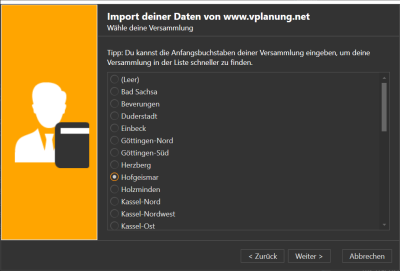
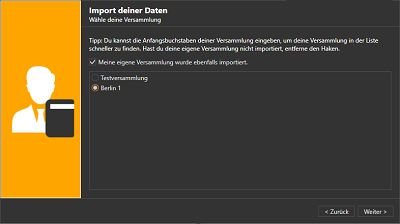
Handbuch Dokumentation

Changed region(s): [[0.0, 0.0, 1.0, 0.9062], [0.0, 0.9375, 1.0, 1.0], [0.93, 0.3125, 0.99, 0.5]]

diff --git a/Vortragsmanager/Windows/SetupWizardDialogViewModel.cs b/Vortragsmanager/Windows/SetupWizardDialogViewModel.cs
@@ -454,39 +454,6 @@ namespace Vortragsmanager.Views
                 ImportierteJahreliste.Add(j.Key.ToString(Helper.German));
             }
 
-            var jahr = IoExcel.Import.ExternerPlan.Select(x => x.Kw / 100);
-
-            bool hasMatch = ImportierteJahreliste.Any(x => jahr.Any(y => y.ToString(Helper.German) == x));
-
-            //prüfen ob bereits importiert wurde
-            if (hasMatch)
-            {
-                if (ThemedMessageBox.Show(
-                    $"Es existieren bereits Einträge für das gewählte Jahr. Ereignisse zusammenführen? (Bestehende Einträge werden überschrieben)?",
-                    Properties.Resources.Achtung,
-                    MessageBoxButton.YesNo,
-                    MessageBoxImage.Warning) != MessageBoxResult.Yes)
-                    return;
-            }
-
-            foreach (var item in IoExcel.Import.ExternerPlan)
-            {
-                if (hasMatch) //ich muss das nur prüfen wenn hasMatch=true ist, sonst gibt es keine Einträge im Zeitraum
-                {
-                    var exist = DataContainer.ExternerPlan.FirstOrDefault(x => x.Kw == item.Kw);
-                    if (exist != null)
-                        DataContainer.ExternerPlan.Remove(exist);
-                }
-                DataContainer.ExternerPlan.Add(item);
-            }
-
-            foreach (var item in jahr)
-            {
-                var neu = item.ToString(Core.Helper.German);
-                if (!ImportierteJahreliste.Contains(neu))
-                    ImportierteJahreliste.Add(neu);
-            }
-
             RaisePropertyChanged(nameof(ImportierteJahreliste));
             CanGoNext = true;
             IsFinished = true;

diff --git a/Vortragsmanager/Core/IoExcel.cs b/Vortragsmanager/Core/IoExcel.cs
@@ -455,7 +455,8 @@ namespace Vortragsmanager.Core
                             if (!i.Ältester.Vorträge.Select(y => y.Vortrag).Contains(t))
                                 i.Ältester.Vorträge.Add(i.Vortrag);
 
-                            DataContainer.ExternerPlan.Add(i);
+                            if (!DataContainer.ExternerPlan.Any(x => x.Kw == i.Kw && x.Ältester == i.Ältester))
+                                DataContainer.ExternerPlan.Add(i);
                         }
                     }
                 }

diff --git a/docs/Initialisierung.md b/docs/Initialisierung.md
@@ -3,12 +3,13 @@ title: "Initialisierung deiner Daten"
 ---
 
 Startest du den Vortragsmanager zum ersten mal erscheint ein Wizard der dir bei den ersten Schritten behilflich sein soll.
-Du hast 3 verschiedene Möglichkeiten wie du starten kannst.
+Du hast 4 verschiedene Möglichkeiten wie du starten kannst.
 
  ![Wizard Auswahl](images/installation_wizard_01.png)
 
  1. Ich habe eine Vortragsmanager Datenbank die ich öffnen möchte ⇒ [hier weiter lesen](#datenbank-öffnen)
- 1. Ich habe die Daten von www.vplanung.net und möchte sie importieren. ⇒ [hier weiter lesen](#import-der-vplanungnet-daten)
+ 1. Ich habe Daten von einem anderen Programm und möchte sie importieren. ⇒ [hier weiter lesen](#import-der-daten-aus-excel)
+ 1. Ich möchte das Programm mit Demodaten öffnen um das Programm zu testen.  ⇒ [hier weiter lesen](#demo)
  1. Ich habe keine Daten und möchte mit einem leeren Programm starten. ⇒ [hier weiter lesen](#mit-leerem-programm-starten)
 
 ## Datenbank öffnen ##
@@ -16,35 +17,72 @@ Solltest du bereits eine Datei für den Vortragsmanager haben, kannst du hier im
 
 ## Mit leerem Programm starten ##
 
-Der Assistent wird beendet und du startest mit einem leeren Programm, in dem du alle deine Daten erfassen mußt.
+Der Assistent wird beendet und du startest mit einem leeren Programm, in dem du alle deine Daten erfassen kannst.
 
-## Import der vplanung.net Daten ##
+## Demo ##
+Hier wird eine Beispielplanung für das aktuelle und vorherige Jahre erstellt und angezeigt. Du kannst nach belieben die Planung ändern, Redner hinzufügen und löschen, Listen ausgeben etc. und damit das Programm auf Herz und Nieren testen um zu Entscheiden ob die gebotene Funktionalität deinen Anforderungen entspricht.
 
-Konzipiert als Nachfolger der vplanung.net Plattform ist der import der Datensicherung aus diesem System der komfortabelste Weg.
-Hier benötigst du 2-3 verschiedene Excel-Dateien, die du aus vplanung.net heruntergeladen haben musst. Das Dateiformat muß Excel 2007 (Dateiendung .xlsx) sein:
+## Import der Daten aus Excel ##
 
-* "Deine Vortragsplanung 2019" (und ältere Jahre)
-* "Liste der Vortragskoordinatoren im Kreis NNN.xlsx"
+Da die meisten sicherlich bereits irgendein Programm haben und die meisten Programme ihre Daten als Excel-Datei speichern können, ist der Import aus Excel der komfortabelste Weg.
+Hier benötigst du 4 verschiedene Excel-Dateien, Das Dateiformat muß mindestens Excel 2007 (Dateiendung .xlsx) sein:
 
-### Import der Koordinatoren ###
+* Eine Liste aller Versammlungen mit Adresse und Kontaktdaten des dortigen Vortragskoordinator
+* Eine Liste aller Redner aus deinem Kreis mit ihren jeweiligen Vortragsnummern sowie ihren Kontaktdaten, sofern vorhanden
+* Plan deiner eigenen Planung für deine Versammlung
+* Liste der Termine für deine Redner in anderen Versammlungen
+
+Bei jedem Import wird die jeweils eine Beispiel-Excel Datei angeboten. Du kannst diese öffnen und mit deinen Daten füllen, oder deine vorhandene Datei so anpassen, das sie dem Beispiel entspricht.
+Wichtig ist dabei, das alle Spalten in der vorgegebenen Reihenfolge existieren. Wenn du die Information nicht hast, kannst du die Spalte einfach leer lassen, es sind nur wenige Spalten wirklich notwendig.
+
+### Import der Versammlungen und Koordinatoren ###
 
 ![Import der Versammlungs- und Koordinatoren Daten](images/installation_wizard_02.png){: .align-right}
-Zuerst werden die Koordinatoren und Versammlungsdaten importiert. Wähle dazu alle deine Dateien "Liste der Vortragskoordinatoren im Kreis NNN.xlsx" aus und klicke auf "Importieren". Dir werden in der rechten Liste die Kreisnummer, sowie die Anzahl der soeben importierten Versammlungen angezeigt. Du kannst diesen Schritt nun auch für alle Nachbarkreise wiederholen, deren Daten du heruntergeladen hast.
+Zuerst werden die Versammlungen und die Koordinatoren importiert. In der rechten Fensterhälfte siehst du, wie viele Versammlungen von dem Programm importiert worden sind.
+Solltest du einen Fehler gemacht haben, geh im Assistent einfach noch einmal einen Schritt zurück und wiederhole den letzten und den aktuellen Schritt noch einmal.
 
-Wenn du alle Koordinatoren-Listen importiert hast, klicke auf weiter.
+Notwendig ist hier die Spalte 2 mit dem Namen der Versammlung. Ist dieses Feld leer, hört der Assistent auf die Datei einzulesen.
+Fehlen Informationen, werden die Felder später im Programm leer gelassen, oder bei notwendigen Informationen mit Standard-Werten ersetzt.
+So wird bei der Kreis-Nummer -1 eingegeben wenn das Feld leer ist und die Versammlungszeit auf Sonntag 10:00 Uhr eingestellt.
+
+Dieser Import kann auch übersprungen werden. Die Versammlungen können auch über die Rednerliste importiert werden.
 
 <br clear="all" />
 
 ![Auswahl der eigenen Versammlung](images/installation_wizard_03.png){: .align-right}
-Als nächstes wählst du deine eigene Versammlung aus, damit die Redner der korrekten Versammlung zugeordnet werden. 
-Bei mir ist das der Eintrag Hofgeismar.
+Nun siehst du alle im vorherigen Schritt importierten Versammlungen. Wähle aus den Versammlungen aus, welche dieser Versammlungen deine eigene ist.
+Bei mir ist das der Eintrag "Berlin 1".
+Sollte deine eigene Versammlung in der vorherigen Liste nicht enthalten sein, dann Deaktiviere die Box "Meine eigene Versammlung wurde ebenfalls importiert". 
+In diesem Fall wird eine neue Versammlung angelegt, die du später umbenennen kannst.
 
 <br clear="all" />
 
-![Import der Vortragsbuchungen](images/installation_wizard_04.png){: .align-right}
-Als letzter Schritt werden nun die Vortragseinladungen importiert. Auch in diesem Schritt können nacheinander mehrere Dateien (Jahe) importiert werden.
-Die Dateien dazu heißen z.B. "Deine Vortragsplanung 2019.xlsx". 
+![Import der Redner](images/installation_wizard_04.png){: .align-right}
+Nun werden die Redner importiert. Im Rechten Bereich siehst du wieviele Redner zu den einzelnen Versammlungen importiert worden sind.
+
+In dieser Liste müssen der Name der Versammlung und der Name des Redners eingetragen sein. Alle weiteren Felder sind optional.
+Ist der Name der Versammlung unbekannt, wird sie neu angelegt.
+
+<br clear="all" />
+
+![Import der Vortragsbuchungen](images/installation_wizard_05.png){: .align-right}
+Als nächstes werden die bisherigen Vortragseinladungen importiert. Also alle Vorträge die in deiner Versammlung gehalten wurden.
+Pflichtfeld ist das Datum des Ereigniss und entweder ein Redner plus Vortragsnummer oder im Feld Vortragsthema eines der folgenden Einträge:
+* Weltzentrale (Streaming)
+* Kreiskongress
+* Regionaler Kongress
+* Sondervortrag
+* Streaming
+* Dienstwoche
+
+<br clear="all" />
+
+![Import der Vortragsbuchungen](images/installation_wizard_06.png){: .align-right}
+Als letzter Schritt werden nun die Vortragseinladungen deiner Redner in anderen Versammlungen importiert. 
+
 Die importierten Jahre werden dir zur Kontrolle wieder rechts angezeigt.
+Pflichtfelder sind Datum, Rednername und Vortragsnummer.
+Alternativ kann im Feld mit dem Versammlungsname das Wort "Urlaub" eingetragen, dann wird die Woche für den Redner als "Abwesend" markiert.
 
 
 [zurück](Installation.md){: .btn .btn--inverse}  [weiter](MeinPlan.md){: .btn .btn--inverse}
